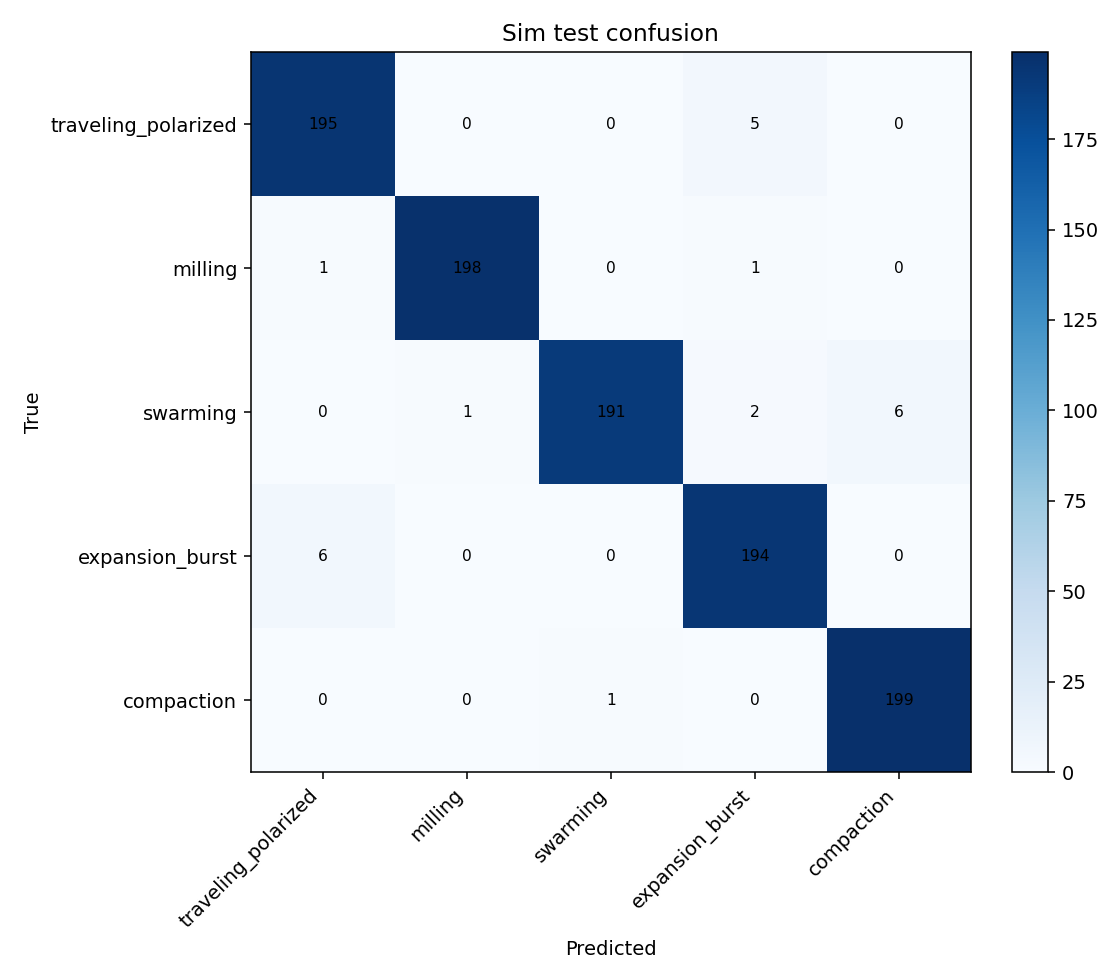
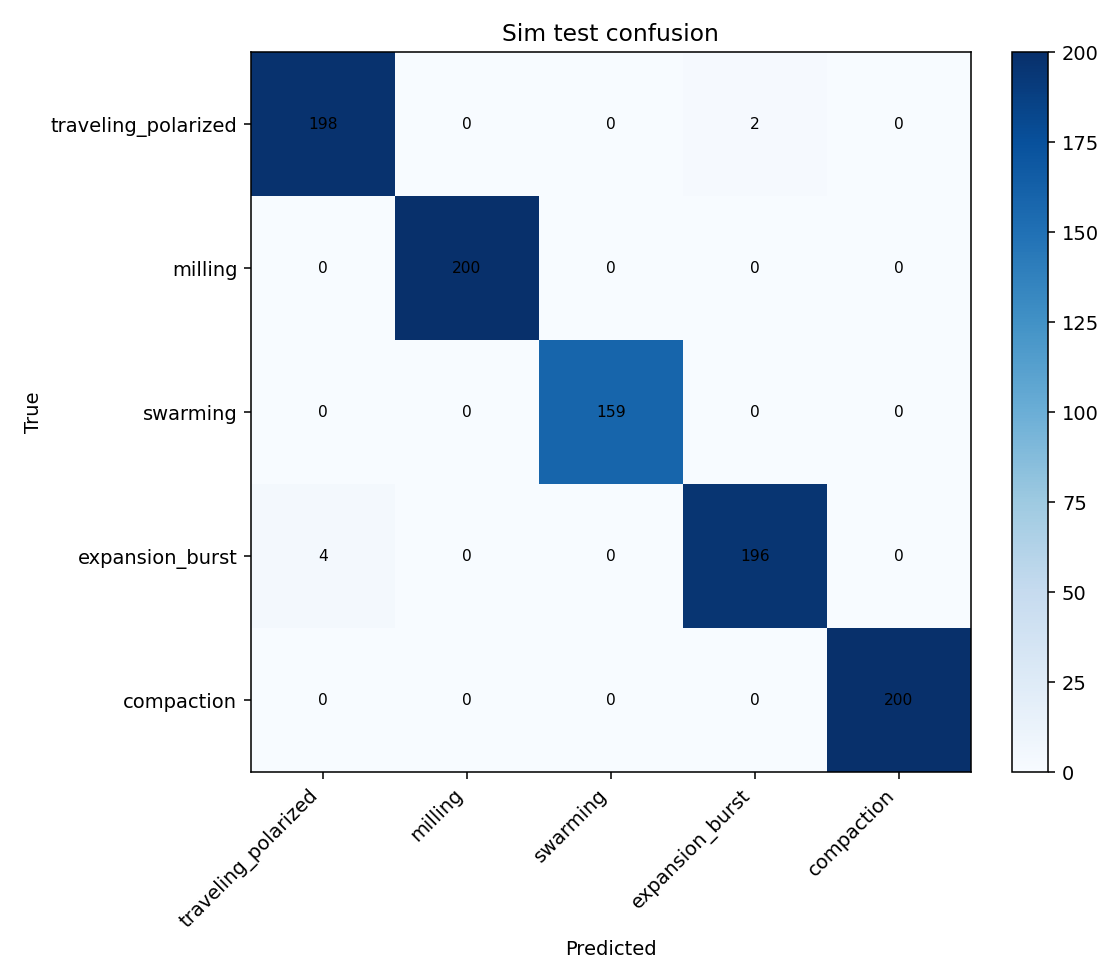
Update confusion matrix images for improved evaluation clarity
- Replaced existing binary confusion matrix images for both real and simulated classifiers with updated versions to enhance visual representation of classification performance.
- These updates aim to provide clearer insights into the model's accuracy and error distribution in the fish school simulator's evaluation framework.

diff --git a/LICENSE.md b/LICENSE.md
@@ -1,0 +1,36 @@
+# License
+
+## Copyright
+
+Copyright (c) 2026 Josef Berman  
+School of Marine Sciences, University of Haifa, Haifa, Israel
+
+This repository contains software, configuration, and documentation developed as part of doctoral research on fish-school motion classification using simulated and annotated collective dynamics.
+
+## Software License
+
+The source code in this repository is released under the **MIT License**:
+
+Permission is hereby granted, free of charge, to any person obtaining a copy of this software and associated documentation files (the "Software"), to deal in the Software without restriction, including without limitation the rights to use, copy, modify, merge, publish, distribute, sublicense, and/or sell copies of the Software, and to permit persons to whom the Software is furnished to do so, subject to the following conditions:
+
+The above copyright notice and this permission notice shall be included in all copies or substantial portions of the Software.
+
+THE SOFTWARE IS PROVIDED "AS IS", WITHOUT WARRANTY OF ANY KIND, EXPRESS OR IMPLIED, INCLUDING BUT NOT LIMITED TO THE WARRANTIES OF MERCHANTABILITY, FITNESS FOR A PARTICULAR PURPOSE AND NONINFRINGEMENT. IN NO EVENT SHALL THE AUTHORS OR COPYRIGHT HOLDERS BE LIABLE FOR ANY CLAIM, DAMAGES OR OTHER LIABILITY, WHETHER IN AN ACTION OF CONTRACT, TORT OR OTHERWISE, ARISING FROM, OUT OF OR IN CONNECTION WITH THE SOFTWARE OR THE USE OR OTHER DEALINGS IN THE SOFTWARE.
+
+## Academic Use and Attribution
+
+If you use this work in academic research, please cite the associated dissertation or manuscript when it is published. Until a formal citation is available, please credit:
+
+> Josef Berman. *School Motion Classifier*: an order-parameter-based pipeline for simulated and real fish-school motion classification. PhD research software, University of Haifa, 2026.
+
+## Third-Party Materials
+
+The following materials are **not** necessarily covered by the MIT License above and may be subject to separate terms:
+
+- Real trajectory data under `schooling-datasets/` and related annotations, which originate from external collective-motion datasets and should be used according to their original data-use conditions.
+- Bibliographic references and figures in `paper/`, which remain the property of their respective publishers or authors.
+- Python dependencies listed in `requirements.txt`, each governed by its own license.
+
+## Disclaimer
+
+This software is provided for research and educational purposes. It is not intended for clinical, regulatory, or safety-critical applications. Results obtained with synthetic data may not transfer directly to real biological systems.
